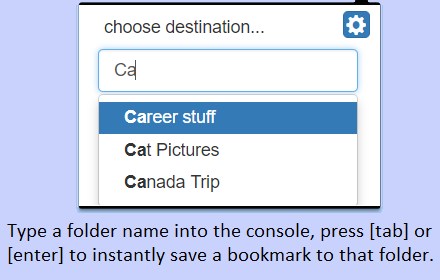
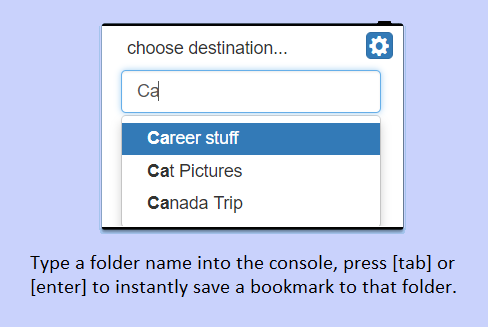
Updated demo1 photo.

diff --git a/README.md b/README.md
@@ -2,7 +2,7 @@
 
 ![screenshot](demo1.png)
 
-__Available Now__: [Get the chrome extension!](https://chrome.google.com/webstore/detail/bookmap/gdbkjigmeiednmbhllknejncmoklabne) Version 1.234 Beta
+__[Available Now: Get the chrome extension!]__(https://chrome.google.com/webstore/detail/bookmap/gdbkjigmeiednmbhllknejncmoklabne) Version 1.234 Beta
 *Highly recommended you set up hotkeys before using.*
 
 Chrome extension designed to significantly decreases the time it takes to save a bookmark to a desired folder.
